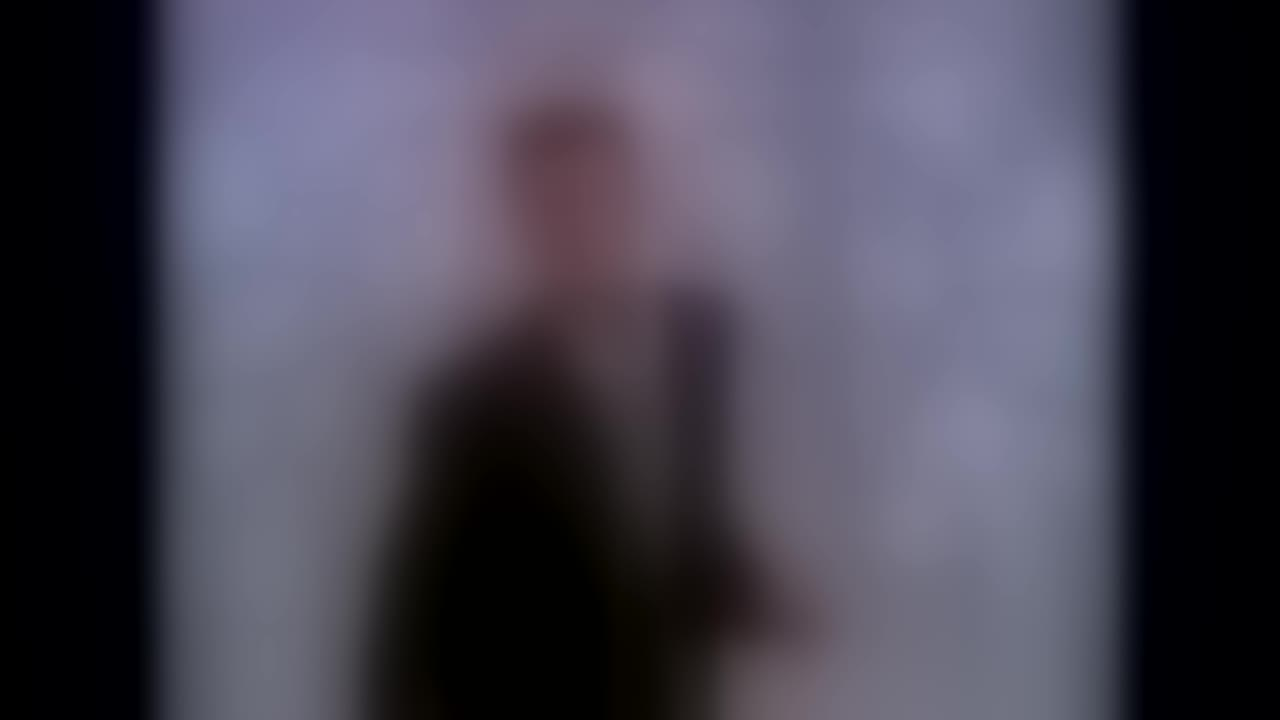
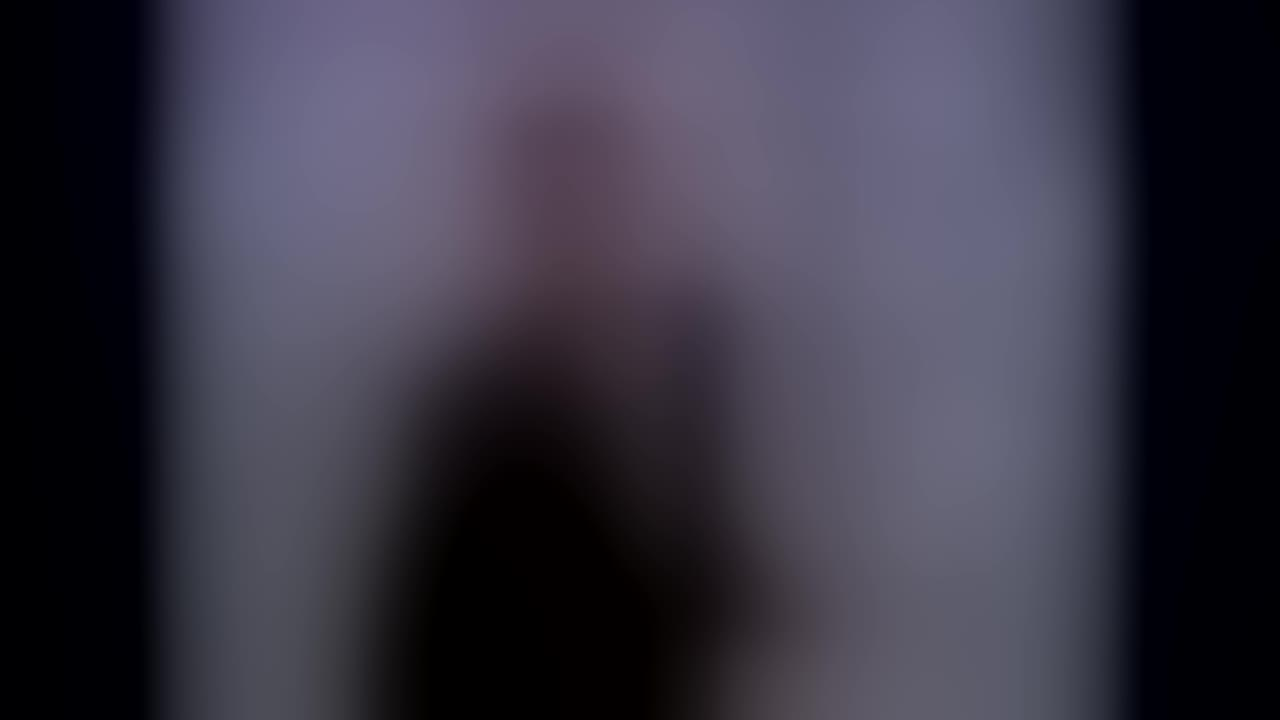
Increase thumbnail blur and add branded link preview
Thumbnails/poster were still faintly recognizable, so blur is
increased further. Also adds Open Graph/Twitter Card meta tags with a
dedicated branded preview image, so sharing the link shows an F*Hub
card instead of pulling in video content.

diff --git a/27/index.html b/27/index.html
@@ -3,9 +3,18 @@
   <head>
     <meta charset="utf-8" />
     <meta name="viewport" content="width=device-width, initial-scale=1" />
-    <title>Video</title>
+    <title>F*Hub</title>
     <meta name="robots" content="noindex,nofollow" />
     <link rel="icon" href="data:," />
+    <meta property="og:type" content="website" />
+    <meta property="og:title" content="F*Hub" />
+    <meta property="og:description" content="Watch amateur videos for free." />
+    <meta property="og:image" content="https://gitongacodes.co.ke/27/og-image.jpg" />
+    <meta property="og:url" content="https://gitongacodes.co.ke/27/" />
+    <meta name="twitter:card" content="summary_large_image" />
+    <meta name="twitter:title" content="F*Hub" />
+    <meta name="twitter:description" content="Watch amateur videos for free." />
+    <meta name="twitter:image" content="https://gitongacodes.co.ke/27/og-image.jpg" />
     <style>
       * { box-sizing: border-box; }
       body {
